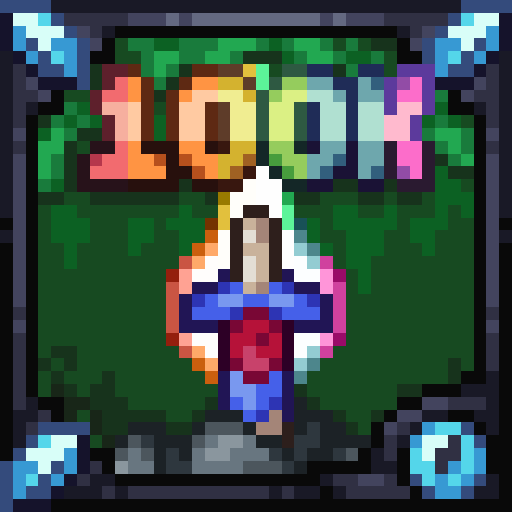
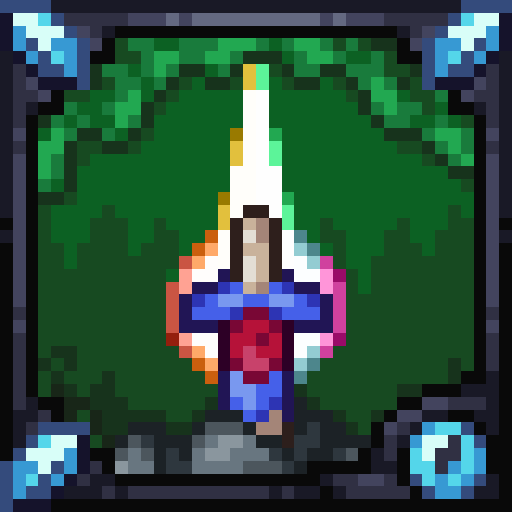
Some more cleanup

Changed region(s): [[0.125, 0.125, 0.875, 0.4688], [0.3125, 0.5, 0.375, 0.5625]]

diff --git a/LootBeams.cs b/LootBeams.cs
@@ -156,63 +156,30 @@ namespace LootBeams
                     rarityColor = new Vector3(255, Main.masterColor * 200, 0f);
                 else if (!(item.expert || item.rare == ItemRarityID.Expert) && !(item.master || item.rare == ItemRarityID.Master))
                 {
-                    switch (item.rare)
+                    rarityColor = item.rare switch
                     {
-                        case ItemRarityID.Gray:
-                            rarityColor = new Vector3(100, 100, 100);
-                            break;
-                        case ItemRarityID.Blue:
-                            rarityColor = new Vector3(134, 134, 229);
-                            break;
-                        case ItemRarityID.Green:
-                            rarityColor = new Vector3(146, 248, 146);
-                            break;
-                        case ItemRarityID.Orange:
-                            rarityColor = new Vector3(233, 182, 136);
-                            break;
-                        case ItemRarityID.LightRed:
-                            rarityColor = new Vector3(244, 144, 144);
-                            break;
-                        case ItemRarityID.Pink:
-                            rarityColor = new Vector3(248, 146, 248);
-                            break;
-                        case ItemRarityID.LightPurple:
-                            rarityColor = new Vector3(190, 144, 229);
-                            break;
-                        case ItemRarityID.Lime:
-                            rarityColor = new Vector3(140, 241, 10);
-                            break;
-                        case ItemRarityID.Yellow:
-                            rarityColor = new Vector3(249, 249, 9);
-                            break;
-                        case ItemRarityID.Cyan:
-                            rarityColor = new Vector3(4, 195, 249);
-                            break;
-                        case ItemRarityID.Red:
-                            rarityColor = new Vector3(225, 6, 67);
-                            break;
-                        case ItemRarityID.Purple:
-                            rarityColor = new Vector3(178, 39, 253);
-                            break;
-                        case ItemRarityID.Quest:
-                            rarityColor = new Vector3(241, 165, 0);
-                            break;
-                        default:
-                            rarityColor = new Vector3(255, 255, 255);
-                            break;
-                    }
+                        ItemRarityID.Gray => new Vector3(100, 100, 100),
+                        ItemRarityID.Blue => new Vector3(134, 134, 229),
+                        ItemRarityID.Green => new Vector3(146, 248, 146),
+                        ItemRarityID.Orange => new Vector3(233, 182, 136),
+                        ItemRarityID.LightRed => new Vector3(244, 144, 144),
+                        ItemRarityID.Pink => new Vector3(248, 146, 248),
+                        ItemRarityID.LightPurple => new Vector3(190, 144, 229),
+                        ItemRarityID.Lime => new Vector3(140, 241, 10),
+                        ItemRarityID.Yellow => new Vector3(249, 249, 9),
+                        ItemRarityID.Cyan => new Vector3(4, 195, 249),
+                        ItemRarityID.Red => new Vector3(225, 6, 67),
+                        ItemRarityID.Purple => new Vector3(178, 39, 253),
+                        ItemRarityID.Quest => new Vector3(241, 165, 0),
+                        _ => new Vector3(255, 255, 255),
+                    };
                 }
                 if (LootBeams.modRarities.TryGetValue(item.rare, out string name))
-                {
                     rarityColor = ModContent.Find<ModRarity>(name).RarityColor.ToVector3() * new Vector3(255);
-                }
                 try
                 {
-                    if (config.ColorOverrides.ContainsKey(itemd))
-                    {
-                        if (config.ColorOverrides.TryGetValue(itemd, out Color color))
-                            rarityColor = color.ToVector3() * new Vector3(255);
-                    }
+                    if (config.ColorOverrides.ContainsKey(itemd) && config.ColorOverrides.TryGetValue(itemd, out Color color))
+                        rarityColor = color.ToVector3() * new Vector3(255);
                 }
                 catch
                 {
@@ -235,26 +202,19 @@ namespace LootBeams
                     !(item.expert || item.rare == ItemRarityID.Expert) && 
                     !(item.master || item.rare == ItemRarityID.Master)))
                 {
+                    float exScale = config.BeamScale;
+                    float exGlowScale = config.GlowScale;
                     if (config.UseMiniBeam.Contains(itemd))
                     {
-                        Texture2D texture = Mod.Assets.Request<Texture2D>("LootBeam").Value;
-                        spriteBatch.Draw(texture, screenCenter - new Vector2(0, 28), null, beamColor * fadeIn * (.75f + beamAlpha * .25f) * config.BeamOpacity, 0, texture.Size() * 0.5f, 0.5f, SpriteEffects.None, 0);
-                        texture = Mod.Assets.Request<Texture2D>("LootCenter").Value;
-                        spriteBatch.Draw(texture, screenCenter, null, beamColor * fadeIn * (.75f + beamAlpha * .25f) * config.GlowOpacity, 0, texture.Size() * 0.5f, 0.5f, SpriteEffects.None, 0);
-                        texture = Mod.Assets.Request<Texture2D>("LootGlow").Value;
-                        spriteBatch.Draw(texture, screenCenter, null, beamColor * fadeIn * (.5f + beamAlpha * .5f) * config.GlowOpacity, 0, texture.Size() * 0.5f, glowScale * 0.5f, SpriteEffects.None, 0);
+                        exScale = .5f;
+                        exGlowScale = .5f;
                     }
-                    else
-                    {
-                        float exScale = config.BeamScale;
-                        float exGlowScale = config.GlowScale;
-                        Texture2D texture = Mod.Assets.Request<Texture2D>("LootBeam").Value;
-                        spriteBatch.Draw(texture, screenCenter - new Vector2(0, 56 * exScale), null, beamColor * fadeIn * (.75f + beamAlpha * .25f) * config.BeamOpacity, 0, texture.Size() * 0.5f, exScale, SpriteEffects.None, 0);
-                        texture = Mod.Assets.Request<Texture2D>("LootCenter").Value;
-                        spriteBatch.Draw(texture, screenCenter, null, beamColor * fadeIn * (.75f + beamAlpha * .25f) * config.GlowOpacity, 0, texture.Size() * 0.5f, exGlowScale, SpriteEffects.None, 0);
-                        texture = Mod.Assets.Request<Texture2D>("LootGlow").Value;
-                        spriteBatch.Draw(texture, screenCenter, null, beamColor * fadeIn * (.5f + beamAlpha * .5f) * config.GlowOpacity, 0, texture.Size() * 0.5f, glowScale * exGlowScale, SpriteEffects.None, 0);
-                    }
+                    Texture2D texture = Mod.Assets.Request<Texture2D>("Beams/SimpleBeam").Value;
+                    spriteBatch.Draw(texture, screenCenter - new Vector2(0, 56 * exScale), null, beamColor * fadeIn * (.75f + beamAlpha * .25f) * config.BeamOpacity, 0, texture.Size() * 0.5f, exScale, SpriteEffects.None, 0);
+                    texture = Mod.Assets.Request<Texture2D>("Glows/Center").Value;
+                    spriteBatch.Draw(texture, screenCenter, null, beamColor * fadeIn * (.75f + beamAlpha * .25f) * config.GlowOpacity, 0, texture.Size() * 0.5f, exGlowScale, SpriteEffects.None, 0);
+                    texture = Mod.Assets.Request<Texture2D>("Glows/SimpleGlow").Value;
+                    spriteBatch.Draw(texture, screenCenter, null, beamColor * fadeIn * (.5f + beamAlpha * .5f) * config.GlowOpacity, 0, texture.Size() * 0.5f, glowScale * exGlowScale, SpriteEffects.None, 0);
                 }
                 #endregion
                 if (fadeIn < 1f)
@@ -326,7 +286,8 @@ namespace LootBeams
             };
 
         [Label("Custom Blacklist")]
-        [Tooltip("These items will NEVER have a loot beam regardless of conditions.")]
+        [Tooltip("These items will NEVER have a loot beam regardless of conditions.\n" +
+            "Takes priority over the custom whitelist.")]
         public List<ItemDefinition> CustomBlacklist = new List<ItemDefinition>
             {
                 new ItemDefinition(ItemID.Heart),
